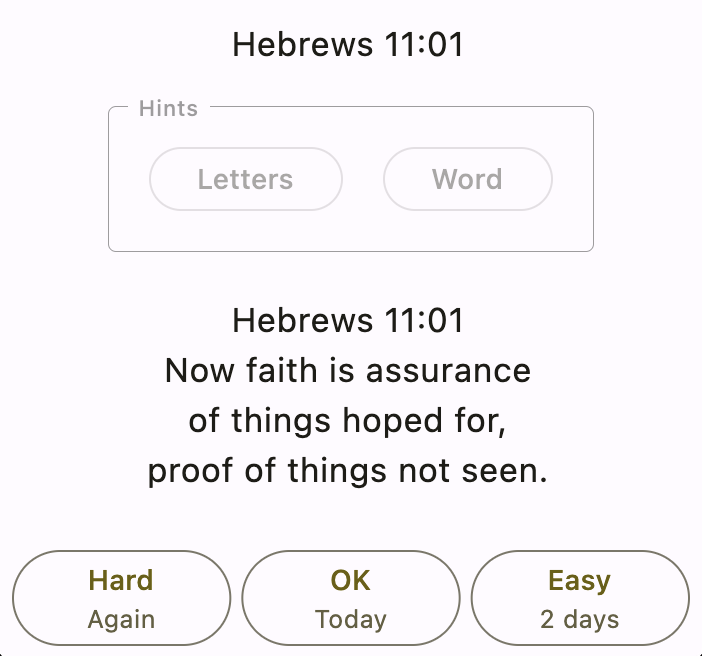
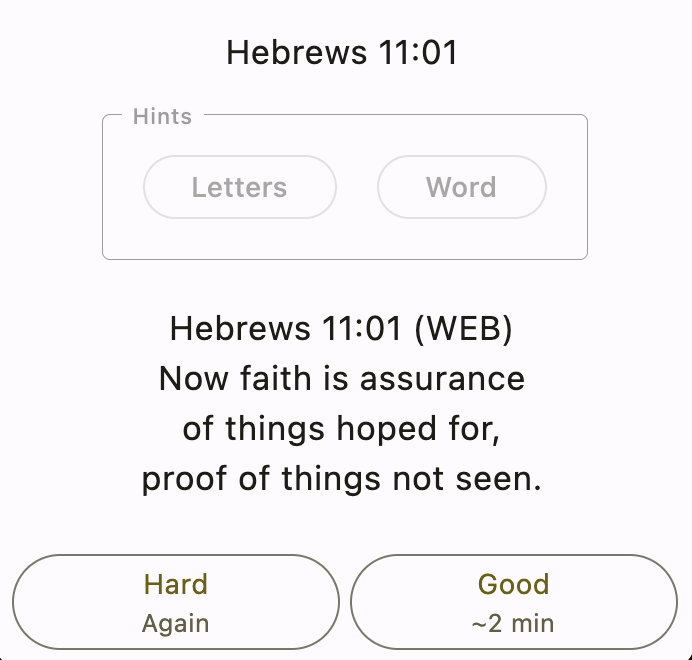
version 1.2.0 docs

diff --git a/docs/docs/practicing/practicing.md b/docs/docs/practicing/practicing.md
@@ -97,7 +97,7 @@ In the next section you'll learn what the response buttons mean.
 
 Memorize Scripture uses a spaced repetition strategy for reviewing verses. That means you'll practice the difficult verses every day while the easy verses you'll practice less frequently.
 
-You determine the verse difficulty yourself by using the response buttons. There are three of these buttons: Hard, OK, and Easy.
+You determine the verse difficulty yourself by using the response buttons. There are two of these buttons by default: Hard and Good.
 
 <div class="bordered-image">
 
@@ -106,20 +106,30 @@ You determine the verse difficulty yourself by using the response buttons. There
 
 These are the meanings:
 
-- **Hard**: Press this button if you couldn't remember the verse or if you made a mistake while quoting it. For old verses, this will reset the due date so that you'll begin reviewing the verse daily again. For new verses, it schedules the verse so that you'll practice it again in a few minutes.
-- **OK**: Press this button if you quoted the verse correctly. For new verses, the button says "Today" because you still need to review it more time today. For old verses, the button will say "1 day" or "2 days", etc. Every time you review and press OK, the number of days for that verse will increase by one.
-- **Easy**: Press this button if you could quote the verse in your sleep. For review verses, the number of days will be double whatever the OK button says.
+- **Hard**: Press this button if you can't remember the verse or if you make a mistake while quoting it. For old verses, this will reset the due date so that you'll begin reviewing the verse daily again. For new verses, it schedules the verse so that you'll practice it again right away.
+- **Good**: Press this button if you quoted the verse correctly. For new verses, you still need to review it one more time today, so the button gives an approximate time in minutes until the next review. For old verses, the button will say "1 day" or "2 days", etc. Every time you review and press Good, the number of days for that verse will increase by one.
 
-Go through all three verses pressing OK for each one. The next time you come to Hebrews 11:01, the OK response button will look a little different:
+:::note
+**Power users**: Do you want a little more control over when you'll practice the verse next? Go to **Settings** in the app menu and turn off **Two-button response** mode. This will give you four choices for every verse:
+
+<div class="bordered-image">
+
+![response buttons](img/practice-10.png)
+</div>
+
+No matter how high the other buttons get, the **OK** button is guaranteed to never be more than 1 day, so you can always practice again tomorrow if you like. This is equivalent to pressing Hard and then Good in the two-button mode. The **Easy** button is double the number of days as Good. Choose this if you can quote the verse in your sleep.
+:::
+
+Go through all three verses, pressing **Good** for each one. The next time you come to Hebrews 11:01, the Good response button will look a little different:
 
 <div class="bordered-image">
 
 ![response buttons](img/practice-8.png)
 </div>
 
-Now the OK button says "1 day". If you press OK again, you're finished practicing it, and you won't see it again until tomorrow.
+Now the Good button says "1 day". If you press Good again, you're finished practicing it, and you won't see it again until tomorrow.
 
-Press **OK** again for each of the three verses. You'll see the remaining verse number in the top left decrease until there are no more verses left.
+Press **Good** again for each of the three verses. You'll see the remaining verse number in the top left decrease until there are no more verses left.
 
 <div class="bordered-image">
 

diff --git a/docs/docs/getting-started/getting-started.md b/docs/docs/getting-started/getting-started.md
@@ -53,9 +53,9 @@ You have one key verse collection and two passage collections.
 The collection names are displayed alphabetically. If you want to display them in Bible order, one trick is to prefix the name with a number. For example:
 
 ```
-01.  Genesis 12
-02.  Exodus 20
-66.  Revelation 2-3
+01. Genesis 12
+02. Exodus 20
+66. Revelation 2-3
 ```
 :::
 
@@ -65,14 +65,14 @@ Depending on whether you are memorizing an assortment of key verses or a long pa
 
 ### In a key verse collection
 
-Let's start by entering verses in the Key Verse collection you made earlier. Click the **Key Verses** collection item in the list. You'll see the following screen:
+Start by entering verses in the Key Verse collection you made earlier. Click the **Key Verses** collection item in the list. You'll see the following screen:
 
 <div class="bordered-image">
 
 ![empty collection](img/add-verse-1.png)
 </div>
 
-Follow the directions and click the **+** button in the top right. That will show you the Add Verse page:
+Follow the directions and click the **+** button in the top right. That'll show you the **Add Verse** page:
 
 <div class="bordered-image">
 
@@ -84,13 +84,13 @@ Here's the meaning of these two text input boxes:
 - The **prompt** is what the app will show when it's prompting you to quote a verse from memory. For a key verse collection, most people will probably write the verse reference here.
 - The **verse text** is what you're trying to quote. The app will hide this text from you until you're ready to check yourself.
 
-Copy the following and paste it into the **Prompt** box:
+Copy the reference below and paste it into the **Prompt** box:
 
 ```text
 John 3:16
 ```
 
-Then copy the following into the **Verse text** box:
+Then copy and paste the following into the **Verse text** box:
 
 ```text
 For God so loved the world, 
@@ -101,7 +101,7 @@ but have eternal life.
 ```
 
 :::note
-The translation above is the [World English Bible](https://worldenglish.bible/) (WEB). It's one of the only modern translations that has been released into the public domain. All verses quoted in this tutorial will use the WEB version.
+The translation above is from the [World English Bible](https://worldenglish.bible/) (WEB). It's one of the only modern translations that has been released into the public domain. All verses quoted in this tutorial use the WEB version.
 :::
 
 To save the verse, press the **check mark button** in the top right:

diff --git a/docs/docs/settings/settings.md b/docs/docs/settings/settings.md
@@ -39,6 +39,24 @@ This setting is useful when you reset the due date for all of the verses in a co
 Rather than entering a lot of new verses at once and setting the max new verses to a low number like 1, it's generally better to wait to enter a new verse until you're ready to start learning it.
 :::
 
+## Two-button response
+
+The default is to show two response buttons on the practice screen:
+
+<div class="bordered-image">
+
+![settings in menu](img/practice-7.png)
+</div>
+
+If you turn this setting off, you'll have four buttons:
+
+<div class="bordered-image">
+
+![settings in menu](img/practice-10.png)
+</div>
+
+## Conclusion
+
 Congratulations! You've finished the tutorial!
 
 If there were any parts you still found confusing, please leave a comment in the feedback section.

diff --git a/docs/docs/intro/intro.md b/docs/docs/intro/intro.md
@@ -10,3 +10,10 @@ Memorize Scripture is an [**Android**](https://play.google.com/store/apps/detail
 ![Add collection](img/android-ios.png)
 
 This tutorial will introduce you to how the app works. To get started, click the **Next** button below.
+
+:::important
+This tutorial was written for Memorize Scripture version 1.2.0. You can check your installed version number by going to the app menu and choosing **About**. If you're using a lower version, you should upgrade. The store links are below:
+
+- Android Play Store: https://play.google.com/store/apps/details?id=dev.ethnos.memorize_scripture
+- Apple App Store: https://apps.apple.com/us/app/memorize-scripture-ethnosdev/id6449814205
+:::

diff --git a/docs/README.md b/docs/README.md
@@ -5,7 +5,7 @@ This website is built using [Docusaurus 2](https://docusaurus.io/), a modern sta
 ### Local Development
 
 ```
-$ npm run start
+npm run start
 ```
 
 This command starts a local development server and opens up a browser window. Most changes are reflected live without having to restart the server.
@@ -13,7 +13,7 @@ This command starts a local development server and opens up a browser window. Mo
 ### Build
 
 ```
-$ npm run build
+npm run build
 ```
 
 This command generates static content into the `build` directory and can be served using any static contents hosting service.

diff --git a/docs/docs/making-changes/making-changes.md b/docs/docs/making-changes/making-changes.md
@@ -50,7 +50,7 @@ Back in the Hebrews 11 view screen, long-press the third verse. You'll see anoth
 ![verse view menu](img/verse-menu.png)
 </div>
 
-Press **Reset due date**. This will make the third verse new again, as if you had just entered it and never practiced it before. This is useful if you accidentally mark a verse as OK or Easy before you're ready.
+Press **Reset due date**. This will make the third verse new again, as if you had just entered it and never practiced it before. This is useful if you accidentally mark a verse as Good before you're ready.
 
 ## Deleting verses
 
